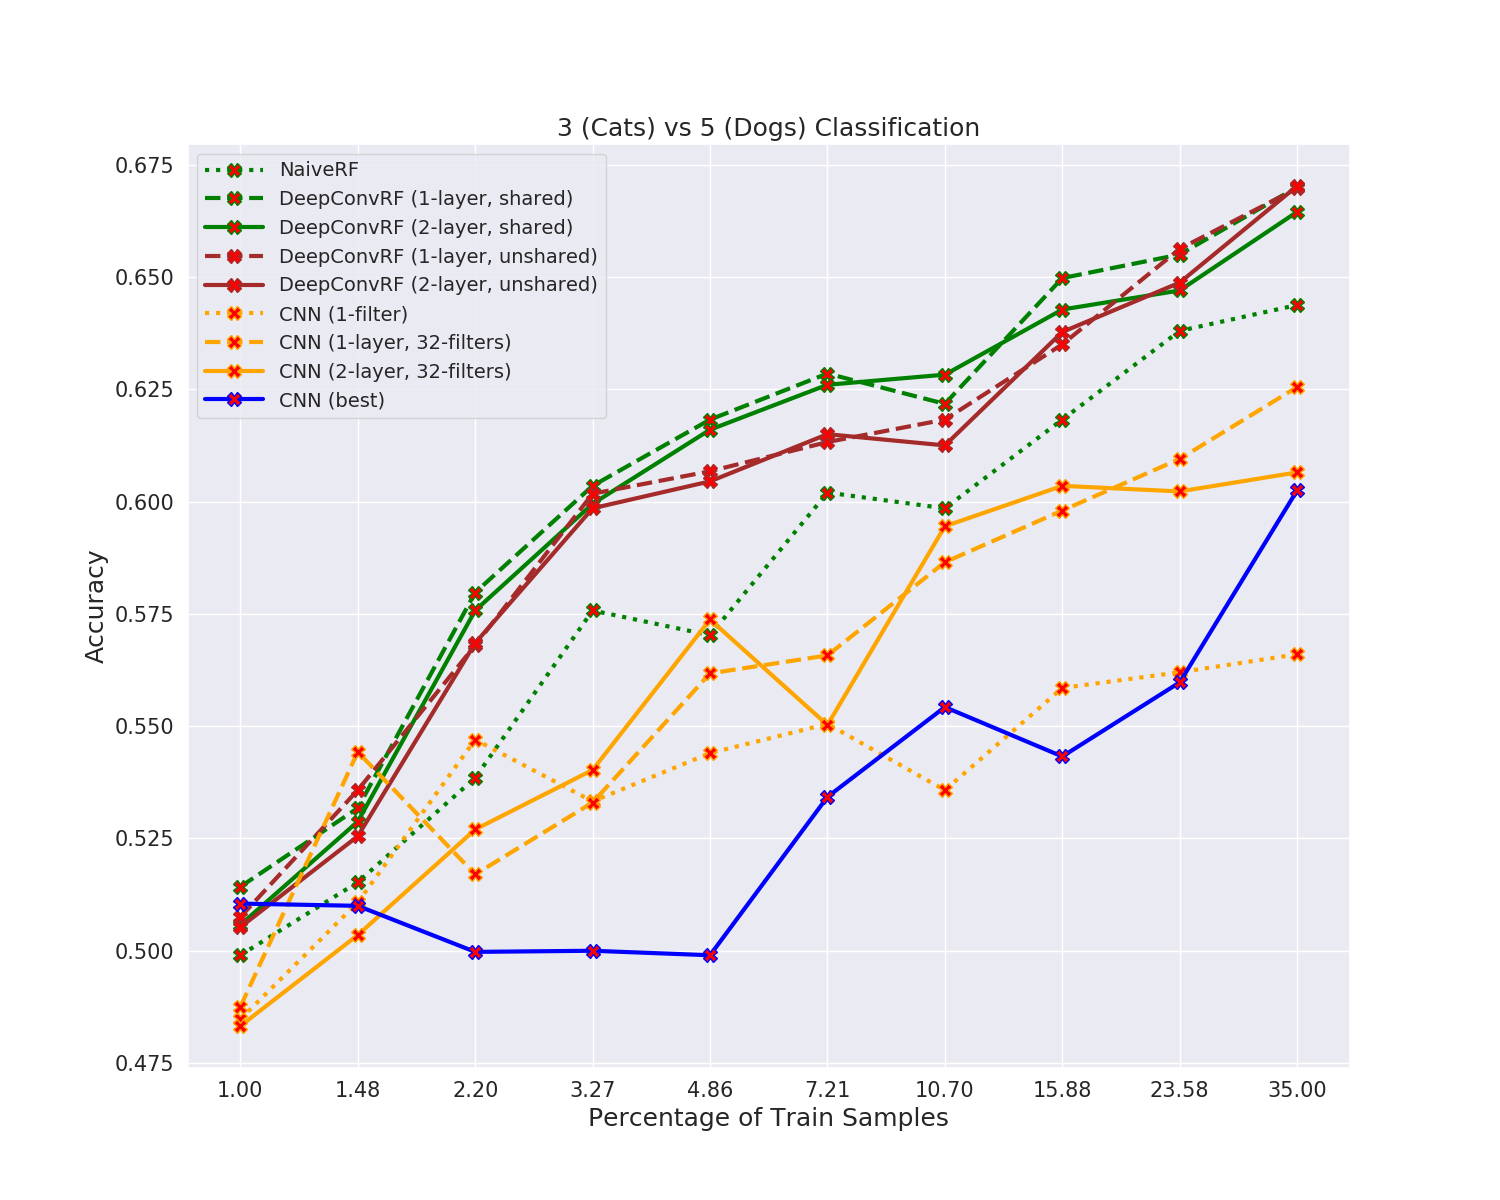
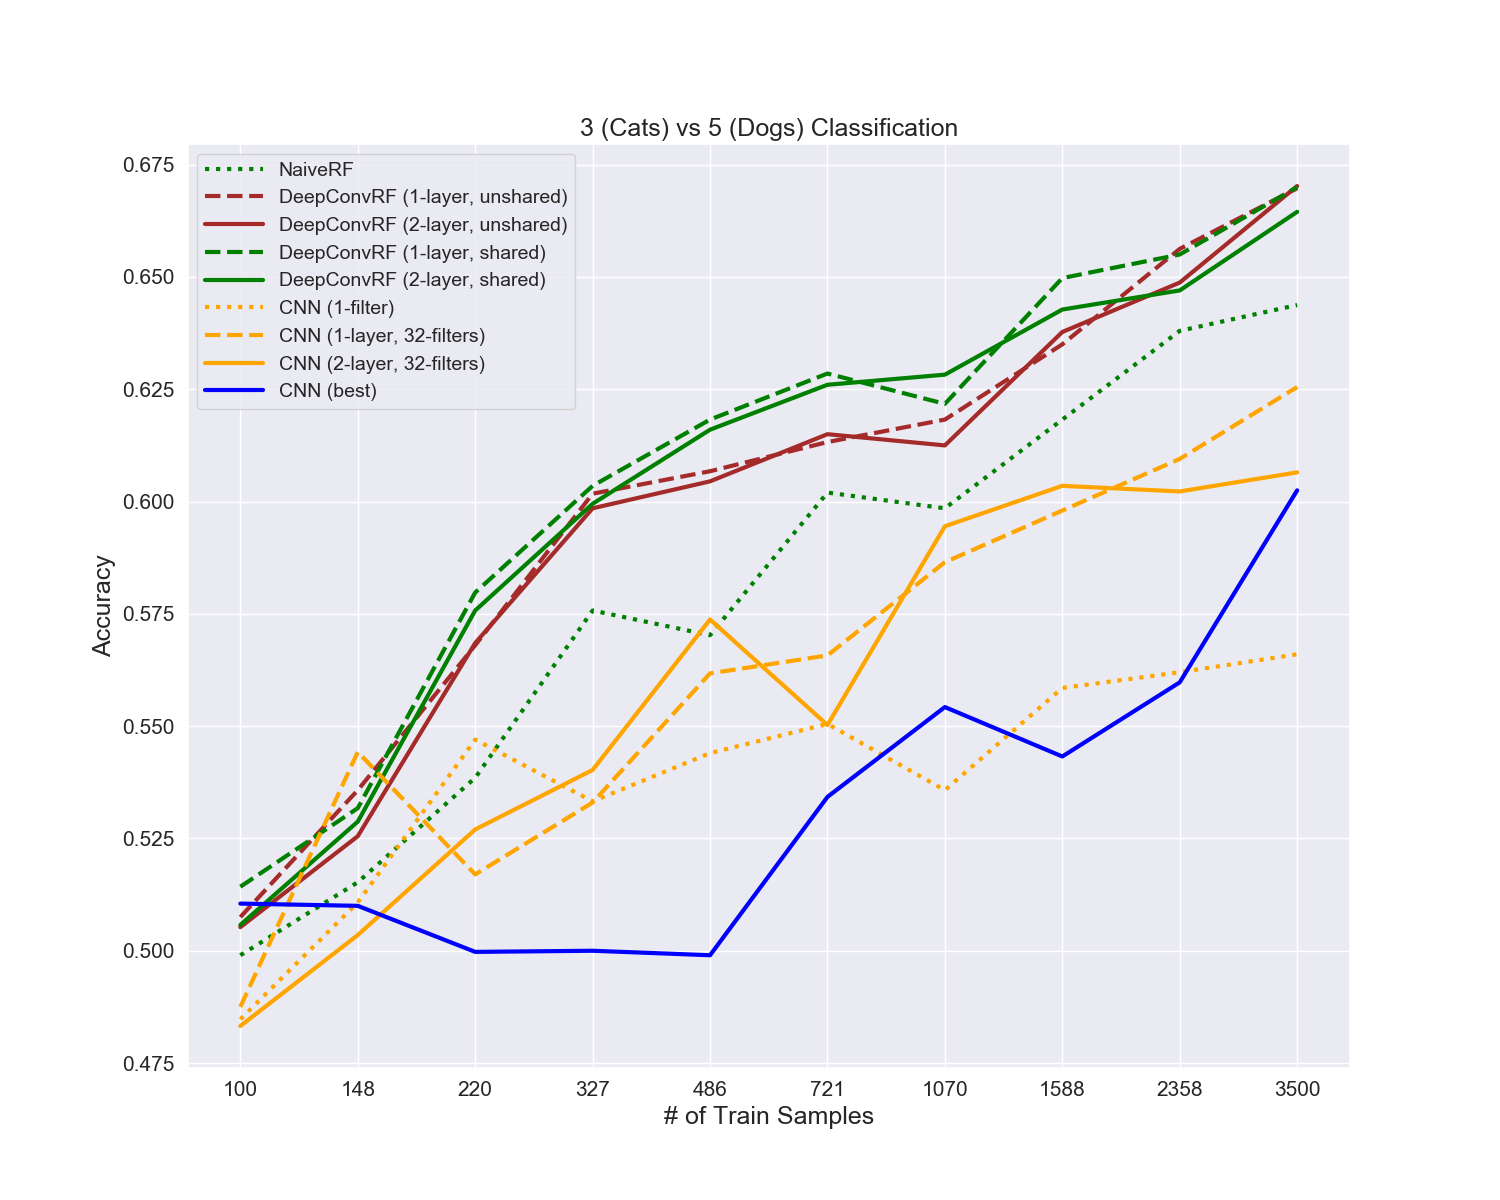
Update plots

diff --git a/experiments/DeepConvRF/DeepConvSharedRFBaselineCIFAR10.py b/experiments/DeepConvRF/DeepConvSharedRFBaselineCIFAR10.py
@@ -21,8 +21,13 @@ sns.set()
 warnings.filterwarnings("ignore")
 # sys.stdout = open("deep_conv_rf_logs.txt", "w+")
 
+##########
+# Settings
+##########
 base_path = ""
-# base_path = "10_percent_data/"
+# base_path = "experiments/DeepConvRF/10_percent_data/"
+class_one = 3
+class_two = 5
 
 
 ###########################################################################################################
@@ -545,7 +550,7 @@ def print_old_results(file_name):
     return accuracy_scores
 
 
-def run_experiment(experiment, experiment_result_file, text, cnn_model=None, class1=3, class2=5):
+def run_experiment(experiment, experiment_result_file, text, cnn_model=None, class1=class_one, class2=class_two):
     global fraction_of_train_samples_space
     print("##################################################################")
     print("acc vs n_samples: " + text + "\n")
@@ -598,39 +603,45 @@ cnn_best_acc_vs_n = run_experiment(run_cnn, "cnn_best_acc_vs_n",
 ###############################################################################
 
 plt.rcParams['figure.figsize'] = 15, 12
+plt.rcParams['figure.titlesize'] = 20
 plt.rcParams['font.size'] = 25
 plt.rcParams['legend.fontsize'] = 14
 plt.rcParams['legend.handlelength'] = 3
-plt.rcParams['figure.titlesize'] = 20
 plt.rcParams['xtick.labelsize'] = 15
 plt.rcParams['ytick.labelsize'] = 15
+plt.rcParams['lines.linewidth'] = 3
 
-fig, ax = plt.subplots()  # create a new figure with a default 111 subplot
-ax.plot(fraction_of_train_samples_space*100, naive_rf_acc_vs_n, marker='X', markerfacecolor='red',
-        markersize=10, color='green', linewidth=3, linestyle=":", label="NaiveRF")
-ax.plot(fraction_of_train_samples_space*100, deep_conv_rf_acc_vs_n, marker='X', markerfacecolor='red',
-        markersize=10, color='green', linewidth=3, linestyle="--", label="DeepConvRF (1-layer, shared)")
-ax.plot(fraction_of_train_samples_space*100, deep_conv_rf_two_layer_acc_vs_n, marker='X',
-        markerfacecolor='red', markersize=10, color='green', linewidth=3, label="DeepConvRF (2-layer, shared)")
+total_train_samples = len(np.argwhere(cifar_train_labels == class_one)) + \
+    len(np.argwhere(cifar_train_labels == class_two))
+x_lables = list(fraction_of_train_samples_space*total_train_samples)
 
-ax.plot(fraction_of_train_samples_space*100, deep_conv_rf_old_acc_vs_n, marker='X',
-        markerfacecolor='red', markersize=10, color='brown', linewidth=3, linestyle="--", label="DeepConvRF (1-layer, unshared)")
-ax.plot(fraction_of_train_samples_space*100, deep_conv_rf_old_two_layer_acc_vs_n, marker='X',
-        markerfacecolor='red', markersize=10, color='brown', linewidth=3, label="DeepConvRF (2-layer, unshared)")
+fig, ax = plt.subplots()
+ax.plot(x_lables, naive_rf_acc_vs_n, marker="", color='green',
+        linestyle=":", label="NaiveRF")
 
-ax.plot(fraction_of_train_samples_space*100, cnn_acc_vs_n, marker='X', markerfacecolor='red',
-        markersize=10, color='orange', linewidth=3, linestyle=":", label="CNN (1-filter)")
-ax.plot(fraction_of_train_samples_space*100, cnn32_acc_vs_n, marker='X', markerfacecolor='red',
-        markersize=10, color='orange', linewidth=3, linestyle="--", label="CNN (1-layer, 32-filters)")
-ax.plot(fraction_of_train_samples_space*100, cnn32_two_layer_acc_vs_n, marker='X',
-        markerfacecolor='red', markersize=10, color='orange', linewidth=3, label="CNN (2-layer, 32-filters)")
+ax.plot(x_lables, deep_conv_rf_old_acc_vs_n, marker="", color='brown',
+        linestyle="--", label="DeepConvRF (1-layer, unshared)")
+ax.plot(x_lables, deep_conv_rf_old_two_layer_acc_vs_n, marker="",
+        color='brown', label="DeepConvRF (2-layer, unshared)")
 
-ax.plot(fraction_of_train_samples_space*100, cnn_best_acc_vs_n, marker='X',
-        markerfacecolor='red', markersize=10, color='blue', linewidth=3, label="CNN (best)")
+ax.plot(x_lables, deep_conv_rf_acc_vs_n, marker="", color='green',
+        linestyle="--", label="DeepConvRF (1-layer, shared)")
+ax.plot(x_lables, deep_conv_rf_two_layer_acc_vs_n, marker="",
+        color='green', label="DeepConvRF (2-layer, shared)")
 
-ax.set_xlabel('Percentage of Train Samples', fontsize=18)
+ax.plot(x_lables, cnn_acc_vs_n, marker="", color='orange',
+        linestyle=":", label="CNN (1-filter)")
+ax.plot(x_lables, cnn32_acc_vs_n, marker="", color='orange',
+        linestyle="--", label="CNN (1-layer, 32-filters)")
+ax.plot(x_lables, cnn32_two_layer_acc_vs_n, marker="",
+        color='orange', label="CNN (2-layer, 32-filters)")
+
+ax.plot(x_lables, cnn_best_acc_vs_n, marker="", color='blue', label="CNN (best)")
+
+
+ax.set_xlabel('# of Train Samples', fontsize=18)
 ax.set_xscale('log')
-ax.set_xticks(list(fraction_of_train_samples_space*100))
+ax.set_xticks(x_lables)
 ax.get_xaxis().set_major_formatter(matplotlib.ticker.ScalarFormatter())
 
 ax.set_ylabel('Accuracy', fontsize=18)
